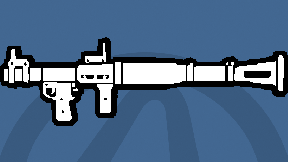
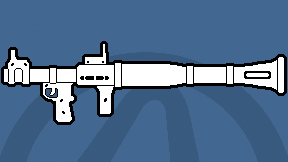
Search and item images
Changes text search to also search the item sources. Started on making the rest of the custom images. I've finished the launcher, shotgun, and relic images.

Changed region(s): [[0.0, 0.216, 1.0, 0.8025]]

diff --git a/src/main/java/com/frogman650/App.java b/src/main/java/com/frogman650/App.java
@@ -207,7 +207,7 @@ public class App extends Application {
         //Filters
         searchTextField = new TextField();
         searchTextField.setId("searchTextField");
-        searchTextField.setPromptText("Search Item Name");
+        searchTextField.setPromptText("Item / Source");
         VBox.setMargin(searchTextField, new Insets(0, 0, 0, 1));
         VBox filterVBox = new VBox();
         filterVBox.setSpacing(1);
@@ -231,7 +231,7 @@ public class App extends Application {
         Button testingButton = new Button("Testing");
         Button testingButton2 = new Button("Testing 2");
 
-        filterVBox.getChildren().addAll(testingButton, testingButton2, filterLabel, allNoneHBox, searchTextField);
+        filterVBox.getChildren().addAll(filterLabel, allNoneHBox, searchTextField);
         Label weaponLabel = new Label("WEAPONS");
         weaponLabel.setId("filterLabel");
         ToggleButton pistolToggleButton = new ToggleButton("Pistols");//0
@@ -985,7 +985,7 @@ public class App extends Application {
     }
 
     public static void resetDisplayedCards(String searchTerm) {
-        filterAllItemCards(searchTerm);
+        filterAllItemCards(searchTerm.toLowerCase());
         displayCardsInViewport();
         setAllCardsVisible();
     }
@@ -1090,7 +1090,7 @@ public class App extends Application {
                 continue;
             } else if ((type.equals("heavy ordnance") || type.equals("heavy weapon (ordnance)")) && !toggleButtonArray.get(16).isSelected()) {
                 continue;
-            } else if (!name.contains(searchTerm)) {
+            } else if (!name.contains(searchTerm) && !source.contains(searchTerm)) {
                 continue;
             } else if (!source.contains("any suitable loot source") && !toggleButtonArray.get(31).isSelected()) {
                 continue;
@@ -1156,7 +1156,7 @@ public class App extends Application {
             }
         }
         while (itemCardArray.size() != totalNodes) {
-            System.out.println(itemCardArray.size() + " vs " + totalNodes);
+            System.out.println(itemCardArray.size() + " of " + totalNodes);
         }
         Collections.sort(itemCardArray, new Comparator<Pane>() {
             public int compare(Pane p1, Pane p2) {
